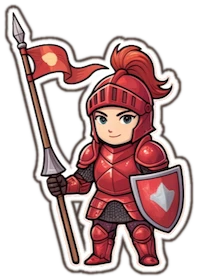
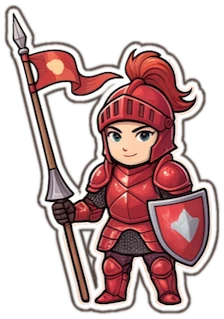
triangle: smooth motion, body-sized heroes that flip, over-head HUD prototypes

Changed region(s): [[0.0, 0.0, 1.0, 1.0], [0.4848, 0.4, 0.5455, 0.4571], [0.7576, 0.6857, 0.7879, 0.7143]]

diff --git a/public/triangle/main.js b/public/triangle/main.js
@@ -15642,11 +15642,11 @@ function build() {
       let dy = $1[1];
       let $3 = between(acc3.seed, -0.9, 0.9);
       let s = $3[0];
-      let turn = $3[1];
+      let turn2 = $3[1];
       let acc$32 = new Acc(s, acc3.next_id, acc3.nodes, acc3.edges);
-      let lay = (turn2) => {
-        let rx2 = dx * cos2(turn2) - dy * sin2(turn2);
-        let ry2 = dx * sin2(turn2) + dy * cos2(turn2);
+      let lay = (turn3) => {
+        let rx2 = dx * cos2(turn3) - dy * sin2(turn3);
+        let ry2 = dx * sin2(turn3) + dy * cos2(turn3);
         return [nearest(acc$32, c, c.x + rx2 * 20, c.y + ry2 * 20), rx2, ry2];
       };
       let room2 = (spur) => {
@@ -15684,8 +15684,8 @@ function build() {
         (k2) => {
           let off = identity(k2) * 0.3;
           return prepend(
-            lay(turn + off),
-            prepend(lay(turn - off), List$Empty$const)
+            lay(turn2 + off),
+            prepend(lay(turn2 - off), List$Empty$const)
           );
         }
       );
@@ -21454,9 +21454,9 @@ function createTreeScreen({ getWorld, setWorld, onUnlock }) {
   function pad(gp, now) {
     const pressed = (i) => !!gp?.buttons[i]?.pressed;
     const edge = (i) => {
-      const on = pressed(i), was = padPrev[i];
+      const on = pressed(i), was2 = padPrev[i];
       padPrev[i] = on;
-      return on && !was;
+      return on && !was2;
     };
     if (!gp) return open;
     if (edge(8)) toggle();
@@ -21916,12 +21916,16 @@ function sticker(name2) {
   m.scale.set(HERO_H, HERO_H, 1);
   return m;
 }
-var FACES_LEFT = /* @__PURE__ */ new Set(["Hunter", "Duelist", "Thief", "Cavalier", "Wizard", "Trickster"]);
-var ME_H = 2;
+var HERO_PX = 280;
+var stickerSize = (image, tall) => image ? [tall * image.width / HERO_PX, tall * image.height / HERO_PX] : [tall, tall];
+var FACES_LEFT = /* @__PURE__ */ new Set(["Hunter", "Duelist", "Thief", "Cavalier", "Wizard", "Trickster", "Bandit", "Bard", "Warrior"]);
+var ME_H = 1.6;
+var showBox = false;
+var turn = 1;
 var me2 = new Bs(new ha(1, 1), new es({ transparent: true, side: p }));
-var dashMark = box3(0.9, 0.12, 16777215);
-me2.visible = dashMark.visible = false;
-scene.add(me2, dashMark);
+me2.visible = false;
+scene.add(me2);
+window.game.view = { camera, me: me2, player };
 function tint(cell) {
   const c = new Kr(0, 0, 0), n = cell.f + cell.r + cell.m;
   [cell.f, cell.r, cell.m].forEach((w2, i) => c.add(new Kr(AXIS[i]).multiplyScalar(w2 / n)));
@@ -22064,6 +22068,8 @@ addEventListener("keydown", (e) => {
       e.preventDefault();
       treeScreen.toggle();
     }
+    if (e.code === "KeyH") nextMiniStyle();
+    if (e.code === "KeyB") showBox = !showBox;
   }
   if (e.code.startsWith("Arrow") || e.code === "Space") e.preventDefault();
 });
@@ -22115,7 +22121,7 @@ var treeScreen = createTreeScreen({ getWorld: () => world, setWorld: (w2) => {
 }, onUnlock: saveUnlocks });
 var hud = document.getElementById("hud");
 var HINT = {
-  keys: "Move WASD \xB7 Jump Space \xB7 Dash Shift \xB7 Attack J (+up / +down in air) \xB7 Up at doors & statues \xB7 T tree",
+  keys: "Move WASD \xB7 Jump Space \xB7 Dash Shift \xB7 Attack J (+up / +down in air) \xB7 Up at doors & statues \xB7 T tree \xB7 H hud style \xB7 B body box",
   pad: "Move stick \xB7 Jump X / Y \xB7 Dash LB / RB \xB7 Attack A (+up / +down in air) \xB7 Up at doors & statues \xB7 Select tree"
 };
 var treeKey = () => usingPad ? "Select" : "T";
@@ -22181,10 +22187,81 @@ function drawHp(p2, dt2) {
   hpEl.classList.toggle("healed", (healFlash -= dt2) > 0);
   shieldsEl.innerHTML = p2.shield ? `<span class="pill teal">\u25C6 ${p2.shield} block${p2.shield > 1 ? "s" : ""}</span>` : "";
 }
+var mini = document.getElementById("mini");
+var MINI_STYLES = [
+  { name: "off" },
+  { name: "A: bare pips", cls: "" },
+  { name: "B: pill", cls: "pill" },
+  { name: "C: arc", cls: "", arc: true },
+  { name: "D: quiet pill (only what is spent or about to fire)", cls: "pill quiet" }
+];
+var miniStyle = 2;
+var miniKey = "";
+try {
+  miniStyle = Number(localStorage.getItem("trip.hud") ?? 2) % MINI_STYLES.length;
+} catch {
+}
+function nextMiniStyle() {
+  miniStyle = (miniStyle + 1) % MINI_STYLES.length;
+  miniKey = "";
+  try {
+    localStorage.setItem("trip.hud", miniStyle);
+  } catch {
+  }
+  floatText(world.player.x, world.player.y + 3.4, `HUD ${MINI_STYLES[miniStyle].name}`, "npc");
+}
+var SHAPE = {
+  jump: "M6 1.5 L11 10.5 H1 Z",
+  dash: "M1 2 L11 6 L1 10 L4 6 Z",
+  block: "M6 1 L11 3 V6.5 C11 9 8.5 10.8 6 11.5 C3.5 10.8 1 9 1 6.5 V3 Z"
+};
+var PIP_COLOR = { jump: "#1f9fb5", dash: "#3aa5ee", block: "#e0a21b" };
+var SKILL_COLOR = { Firebolt: "#ff7a3d", Bolt: "#8b8ff5", Orb: "#8b8ff5", Knife: "#5fbf4a", Arrow: "#5fbf4a", Heal: "#ef6b9a" };
+function drawMini(p2, x, top) {
+  const style = MINI_STYLES[miniStyle];
+  if (!style.cls && style.cls !== "") {
+    mini.style.display = "none";
+    return;
+  }
+  const timed = p2.loadout.toArray().filter((s) => s.trigger.period !== void 0);
+  const rows = [["jump", p2.air_jumps, p2.mods.air_jumps], ["dash", p2.dashes, p2.mods.dashes], ["block", p2.shield, Math.max(p2.shield, p2.mods.shields)]];
+  const key2 = miniStyle + "|" + rows.map((r) => r[1] + "/" + r[2]).join("|") + "|" + timed.map((s) => s.effect.constructor.name).join(",");
+  if (key2 !== miniKey) {
+    miniKey = key2;
+    const groups = rows.filter((r) => r[2] > 0).map(([kind, ready, all2]) => Array.from({ length: all2 }, (_, i) => `<i class="pip ${i < ready ? "calm" : "off"}" style="--c:${PIP_COLOR[kind]}"><svg viewBox="0 0 12 12"><path d="${SHAPE[kind]}"/></svg></i>`).join(""));
+    if (timed.length) groups.push(timed.map((s) => `<i class="pip pie" style="--c:${SKILL_COLOR[s.effect.constructor.name] ?? "#ffc23d"}"></i>`).join(""));
+    mini.className = style.cls;
+    mini.innerHTML = groups.join('<i class="gap"></i>');
+    if (style.arc) {
+      const pips = [...mini.querySelectorAll(".pip")], mid = (pips.length - 1) / 2;
+      pips.forEach((el2, i) => {
+        el2.style.marginBottom = `${-((i - mid) ** 2) * 1.6}px`;
+      });
+    }
+  }
+  const pies = mini.querySelectorAll(".pie");
+  timed.forEach((s, i) => {
+    const period = Math.max(0.3, s.trigger.period * (1 - p2.mods.cooldown_pct / 100)), left = Math.max(0, s.timer);
+    pies[i].style.setProperty("--f", Math.min(1, 1 - left / period));
+    const soon = left < 0.3 && left > 0;
+    pies[i].classList.toggle("soon", soon);
+    pies[i].classList.toggle("calm", !soon && left > 0);
+  });
+  const [sx, sy] = toScreen(x, top + 0.12);
+  mini.style.display = "";
+  mini.style.left = `${sx}px`;
+  mini.style.top = `${sy}px`;
+}
 var acc = 0;
 var last2 = performance.now();
 var stepMs = 0;
 var frames = 0;
+var was = { level: null, x: 0, y: 0, enemies: /* @__PURE__ */ new Map() };
+function remember() {
+  const p2 = world.player;
+  was = { level: world.level, x: p2.x, y: p2.y, enemies: new Map(world.enemies.toArray().map((e) => [e.id, e])) };
+}
+var between2 = (a, b, t2) => Math.abs(b - a) > 2 ? b : a + (b - a) * t2;
 function frame(now) {
   const frameDt = Math.min((now - last2) / 1e3, 0.1);
   acc = Math.min(acc + (now - last2) / 1e3, 0.1);
@@ -22196,6 +22273,7 @@ function frame(now) {
   }
   while (acc >= DT) {
     const t0 = performance.now();
+    remember();
     world = step2(world, new Input(mx, my, jump2, pendJump, pendDash, pendAttack), DT);
     stepMs = stepMs * 0.95 + (performance.now() - t0) * 0.05;
     pendJump = pendDash = pendAttack = false;
@@ -22230,36 +22308,40 @@ function frame(now) {
   }
   syncRoom();
   const p2 = world.player;
-  player.position.set(p2.x, p2.y + height / 2, 0);
+  const part = acc / DT, same = was.level === world.level;
+  const px = same ? between2(was.x, p2.x, part) : p2.x, py = same ? between2(was.y, p2.y, part) : p2.y;
+  player.position.set(px, py + height / 2, 0);
   hurtFlash -= frameDt;
-  const state = hurtFlash > 0 ? 16717636 : p2.dash_time > 0 ? 16777215 : p2.dashes > 0 ? 5227511 : 2781071;
-  player.material.color.set(state);
+  player.material.color.set(hurtFlash > 0 ? 16717636 : p2.dash_time > 0 ? 16777215 : p2.dashes > 0 ? 5227511 : 2781071);
   drawHp(p2, frameDt);
   drawXp(p2);
   drawBossBar();
   const shown = p2.invuln <= 0 || Math.floor(now / 60) % 2 === 0;
   const myClass = p2.class instanceof Some ? world.tree.cells.toArray()[p2.class[0]].name : null;
-  player.visible = shown && !myClass;
+  player.visible = shown && (!myClass || showBox);
+  player.material.transparent = true;
+  player.material.opacity = myClass ? 0.45 : 1;
+  player.position.z = myClass ? 0.9 : 0;
   me2.visible = shown && !!myClass;
-  dashMark.visible = me2.visible && p2.mods.dashes > 0;
   if (myClass) {
     const t2 = heroTexture(myClass);
     if (me2.material.map !== t2) {
       me2.material.map = t2;
       me2.material.needsUpdate = true;
     }
-    const wide = t2.image ? ME_H * t2.image.width / t2.image.height : ME_H;
-    me2.scale.set(wide * p2.facing * (FACES_LEFT.has(myClass) ? -1 : 1), ME_H, 1);
-    me2.position.set(p2.x, p2.y + ME_H / 2, 0.6);
+    const [wide, tall] = stickerSize(t2.image, ME_H);
+    const want = p2.facing * (FACES_LEFT.has(myClass) ? -1 : 1);
+    turn = calm ? want : Math.max(-1, Math.min(1, turn + Math.sign(want - turn) * frameDt / 0.09));
+    me2.scale.set(wide * Math.sin(turn * Math.PI / 2), tall, 1);
+    me2.position.set(px, py + tall / 2, 0.6);
     me2.material.color.set(hurtFlash > 0 ? 16739179 : 16777215);
-    dashMark.position.set(p2.x, p2.y - 0.06, 0.2);
-    dashMark.material.color.set(state);
   }
+  drawMini(p2, px, py + (myClass ? stickerSize(heroTexture(myClass).image, ME_H)[1] : height));
   const hb = active_hitbox(p2);
   slash.visible = hb instanceof Some;
   if (slash.visible) {
     const r = hb[0];
-    slash.position.set(r.x + r.w / 2, r.y + r.h / 2, 1);
+    slash.position.set(r.x + r.w / 2 + px - p2.x, r.y + r.h / 2 + py - p2.y, 1);
     slash.scale.set(r.w, r.h, 1);
   }
   for (const e of world.enemies) {
@@ -22269,36 +22351,47 @@ function frame(now) {
     }
     const { body: body2, bar, w: w2, h, color } = enemyMeshes.get(e.id);
     body2.visible = bar.visible = e.hp > 0;
-    body2.position.set(e.x, e.y + h / 2, 0);
+    const old = same ? was.enemies.get(e.id) : null;
+    const ex = old ? between2(old.x, e.x, part) : e.x, ey = old ? between2(old.y, e.y, part) : e.y;
+    body2.position.set(ex, ey + h / 2, 0);
     const tell = telegraphing(e) && Math.floor(now / 50) % 2 === 0;
     body2.material.color.set(e.flash > 0 ? 16777215 : tell ? 16771899 : color);
     if (!e.awake) body2.material.color.multiplyScalar(0.45);
     const frac = e.hp / e.max_hp;
     bar.scale.x = Math.max(frac, 1e-3);
-    bar.position.set(e.x - w2 * (1 - frac) / 2, e.y + h + 0.3, 0);
+    bar.position.set(ex - w2 * (1 - frac) / 2, ey + h + 0.3, 0);
   }
-  drawShots(world.projectiles.toArray().map((s) => ({ x: s.x - shot_size / 2, y: s.y - shot_size / 2, w: shot_size, h: shot_size })));
-  const strikes = world.strikes.toArray().filter((s) => s.wait <= 0), boxes = (keep) => strikes.filter(keep).map((s) => strike_box(s, p2.x, p2.y));
+  const back = DT * (1 - part);
+  drawShots(world.projectiles.toArray().map((s) => ({ x: s.x - s.vx * back - shot_size / 2, y: s.y - s.vy * back - shot_size / 2, w: shot_size, h: shot_size })));
+  const strikes = world.strikes.toArray().filter((s) => s.wait <= 0);
+  const boxes = (keep) => strikes.filter(keep).map((s) => {
+    const r = strike_box(s, px, py);
+    return s.follow ? r : { x: r.x - s.vx * back, y: r.y - s.vy * back, w: r.w, h: r.h };
+  });
   drawStrikes(boxes((s) => !isMagic(s) && !isArrow(s) && !isFire(s)));
   drawMagic(boxes(isMagic));
   drawArrows(boxes(isArrow));
   drawFire(boxes(isFire));
-  camera.position.x += (p2.x - camera.position.x) * 0.15;
-  camera.position.y += (p2.y + 3 - camera.position.y) * 0.15;
+  const glide = 1 - Math.exp(-9.75 * frameDt);
+  camera.position.x += (px - camera.position.x) * glide;
+  camera.position.y += (py + 3 - camera.position.y) * glide;
   renderer.render(scene, camera);
   const unlockedNow = new Set(world.unlocked.toArray());
   const mine = world.player.class instanceof Some ? world.player.class[0] : -1;
-  for (const s of npcMeshes) {
-    const img = s.hero.material.map.image;
-    if (img) s.hero.scale.x = HERO_H * img.width / img.height;
-    if (!s.statue) continue;
+  npcMeshes.forEach((s, i) => {
+    const [wide, tall] = stickerSize(s.hero.material.map.image, HERO_H), feet = s.n.y + (s.statue ? PEDESTAL_H : 0);
+    s.hero.scale.set(wide, tall, 1);
+    s.y = feet + tall / 2;
+    s.hero.position.y = s.y;
+    npcLabels[i].y = feet + tall + 0.15;
+    if (!s.statue) return;
     const k2 = s.n.role.keystone, open = unlockedNow.has(k2), me3 = k2 === mine;
     s.hero.material.color.set(open ? 16777215 : 2760475);
     s.hero.material.opacity = open ? 1 : 0.45;
     s.hero.position.y = s.y + (me3 && !calm ? Math.sin(performance.now() / 330) * 0.07 : 0);
     s.pedestal.material.color.set(me3 ? GOLD2 : STONE);
     s.niche.material.color.copy(open ? s.tint : LOCKED_TINT);
-  }
+  });
   for (const l of npcLabels) {
     const [sx, sy] = toScreen(l.x, l.y);
     l.el.style.left = `${sx}px`;

diff --git a/public/triangle/index.html b/public/triangle/index.html
@@ -45,6 +45,20 @@
       #extras { display: none; gap: 6px; margin-top: 8px; align-items: center; }
       #extras:has(.pill) { display: flex; }
       #extras > span:empty { display: none; }
+      /* mini HUD over your head (prototypes; H cycles the style): pips for dash, air jumps and blocks, pies for timed skills */
+      #mini { position: fixed; transform: translate(-50%, -100%); pointer-events: none; display: flex; align-items: flex-end; gap: 2px; }
+      #mini .pip { width: 11px; height: 11px; flex: none; transition: opacity 0.15s, transform 0.1s; }
+      #mini svg { display: block; width: 100%; height: 100%; overflow: visible; }
+      #mini path { fill: var(--c); stroke: var(--ink); stroke-width: 1.5; stroke-linejoin: round; }
+      #mini .off path { fill: rgba(255, 255, 255, 0.6); stroke-opacity: 0.55; }
+      #mini .pie { box-sizing: border-box; border: 1.5px solid var(--ink); border-radius: 50%;
+        background: conic-gradient(var(--c) calc(var(--f, 0) * 360deg), #fff 0); }
+      #mini .pie.soon { transform: scale(1.4); }
+      #mini .gap { width: 3px; flex: none; }
+      #mini.pill { background: #fff; border: 2px solid var(--ink); border-radius: 999px; padding: 2px 6px; align-items: center; }
+      #mini.quiet .calm { display: none; }
+      #mini.quiet:not(:has(.pip:not(.calm))) { display: none; }
+      @media (prefers-reduced-motion: reduce) { #mini .pip { transition: none; } }
       .pill { font: 800 0.75rem/1 Nunito; color: #fff; border-radius: 999px; padding: 5px 10px; white-space: nowrap; }
       .pill.gold { background: var(--gold); color: var(--strong); border: 2px solid var(--ink); }
       .pill.teal { background: var(--teal); }
@@ -112,6 +126,7 @@
     <div id="boss" class="sticker"><b>The Warden</b><div class="bar"><div id="boss-fill"></div></div></div>
     <div id="summary" class="sticker"></div>
     <div id="hud" class="sticker"></div>
+    <div id="mini"></div>
     <div id="fatal" class="sticker" role="alert"></div>
     <script>
       // If the game cannot start, or crashes, say why instead of leaving an empty page.
